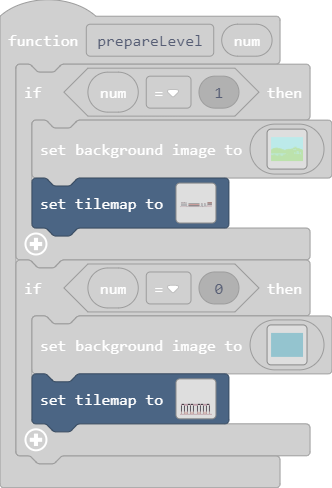
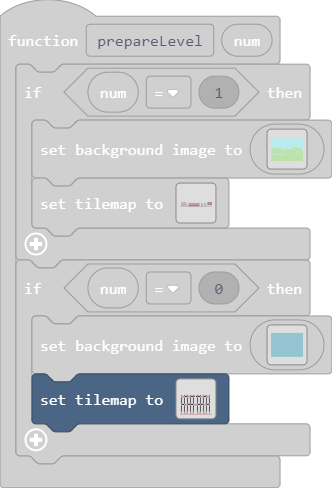
second floor

Changed region(s): [[0.0904, 0.3381, 0.6928, 0.4918], [0.5422, 0.7992, 0.6325, 0.8299]]

diff --git a/main.ts b/main.ts
@@ -1591,7 +1591,7 @@ function prepareLevel (num: number) {
 6 6 6 6 6 6 6 6 6 6 6 6 6 6 6 6 6 6 6 6 6 6 6 6 6 6 6 6 6 6 6 6 6 6 6 6 6 6 6 6 6 6 6 6 6 6 6 6 6 6 6 6 6 6 6 6 6 6 6 6 6 6 6 6 6 6 6 6 6 6 6 6 6 6 6 6 6 6 6 6 6 6 6 6 6 6 6 6 6 6 6 6 6 6 6 6 6 6 6 6 6 6 6 6 6 6 6 6 6 6 6 6 6 6 6 6 6 6 6 6 6 6 6 6 6 6 6 6 6 6 6 6 6 6 6 6 6 6 6 6 6 6 6 6 6 6 6 6 6 6 6 6 6 6 6 6 6 6 6 6 
 `)
         tiles.setTilemap(tiles.createTilemap(
[2 lines of base64/hex data omitted]
             img`
 2 . . . . . . . . . . . . . . . . . . . . . . . . . . . . . 2 2 
 2 . . . . . . . . . . . . . . . . . . . . . . . . . . . . . 2 2 
@@ -1606,8 +1606,7 @@ function prepareLevel (num: number) {
 2 . . . . . . . . . . . . . . . . . . . . . . . . . . . . . 2 2 
 2 . . . . . . . . . . . . . . . . . . . . . . . . . . . . . 2 2 
 2 . . . . . . . . . . . . . . . . . . . . . . . . . . . . . 2 2 
-2 . . . . . . . . . . . . . . . . . . . . . . . . . . . . . 2 2 
-2 . . . . . . . . . . . . . . . . . . . . . . . . . . . . . 2 2 
+2 2 2 2 2 . . 2 2 2 2 . . 2 . . . 2 . . 2 2 2 2 . . 2 2 2 2 2 2 
 2 . . . . . . . . . . . . . . . . . . . . . . . . . . . . . 2 2 
 2 . . . . . . . . . . . . . . . . . . . . . . . . . . . . . 2 2 
 2 . . . . . . . . . . . . . . . . . . . . . . . . . . . . . 2 2 
@@ -1616,6 +1615,7 @@ function prepareLevel (num: number) {
 2 . . . . . . . . . . . . . . . . . . . . . . . . . . . . . 2 2 
 2 . . . . . . . . . . . . . . . . . . . . . . . . . . . . . 2 2 
 2 2 . . 2 2 2 2 . . 2 . . 2 2 2 2 2 . . 2 . . 2 2 2 2 . . 2 2 2 
+2 2 . . . . . . . . . . . . . . . . . . . . . . . . . . . . 2 2 
 2 . . . . . . . . . . . . . . . . . . . . . . . . . . . . . 2 2 
 2 . . . . . . . . . . . . . . . . . . . . . . . . . . . . . 2 2 
 2 . . . . . . . . . . . . . . . . . . . . . . . . . . . . . 2 2 
